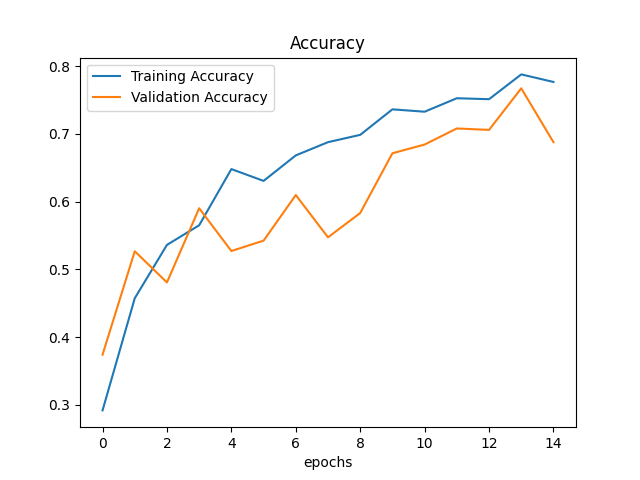
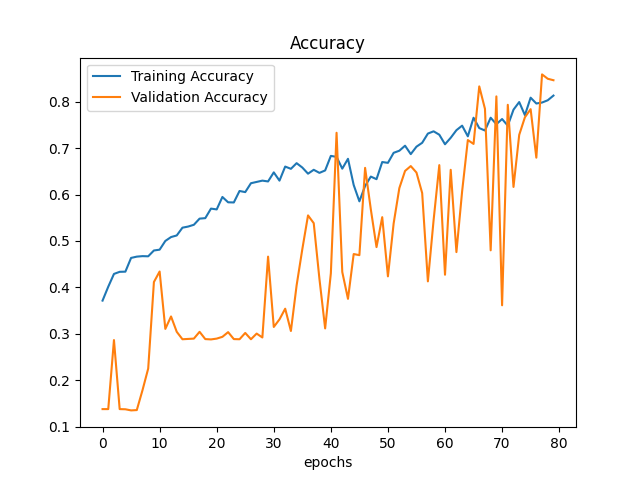
Model Built

diff --git a/project/src/models/CNN_model2.py b/project/src/models/CNN_model2.py
@@ -6,69 +6,72 @@ class Model:
 
     def model_1(self):
         # Early Stopping set to patience of 1
-        callback = tf.keras.callbacks.EarlyStopping(monitor='loss', patience=3)
+        callback = tf.keras.callbacks.EarlyStopping(monitor='loss', patience=11)
 
         # Build a CNN model
         model_1 = tf.keras.models.Sequential([
 
             # 1.
             tf.keras.layers.Conv2D(filters=64,
-                                   kernel_size=7,
+                                   kernel_size=4,
                                    activation="relu",
-                                   input_shape=(224, 224, 1)),
-            tf.keras.layers.Dropout(0.25),
+                                   input_shape=(128, 128, 1)),
             tf.keras.layers.MaxPool2D(pool_size=2,
                                       padding="Same"),
+            tf.keras.layers.Dropout(0.20),
 
             # 2.
             tf.keras.layers.Conv2D(filters=128,
-                                   kernel_size=7,
+                                   kernel_size=4,
                                    activation="relu"),
-            tf.keras.layers.Dropout(0.25),
             tf.keras.layers.MaxPool2D(pool_size=2,
                                       padding="Same"),
 
             # 3.
-            tf.keras.layers.Conv2D(filters=128,
-                                   kernel_size=7,
+            tf.keras.layers.Conv2D(filters=256,
+                                   kernel_size=4,
                                    activation="relu"),
-            tf.keras.layers.Dropout(0.30),
             tf.keras.layers.MaxPool2D(pool_size=2,
                                       padding="Same"),
+            tf.keras.layers.Dropout(0.20),
 
             # 4.
-            tf.keras.layers.Conv2D(filters=128,
-                                   kernel_size=7,
+            tf.keras.layers.Conv2D(filters=512,
+                                   kernel_size=4,
                                    activation="relu"),
-            tf.keras.layers.Dropout(0.30),
             tf.keras.layers.MaxPool2D(pool_size=2,
                                       padding="Same"),
 
             # 5.
-            tf.keras.layers.Conv2D(filters=256,
-                                   kernel_size=7,
+            tf.keras.layers.Conv2D(filters=512,
+                                   kernel_size=4,
                                    activation="relu"),
-            tf.keras.layers.Dropout(0.30),
+
             tf.keras.layers.MaxPool2D(pool_size=2,
                                       padding="Same"),
+            tf.keras.layers.Dropout(0.20),
 
             tf.keras.layers.Flatten(),
             tf.keras.layers.Dense(1024, activation="relu"),
             tf.keras.layers.BatchNormalization(),
-            tf.keras.layers.Dropout(0.5),
+            tf.keras.layers.Dense(512, activation="relu"),
+            tf.keras.layers.BatchNormalization(),
+            tf.keras.layers.Dense(64, activation="relu"),
+            tf.keras.layers.BatchNormalization(),
+            tf.keras.layers.Dropout(0.3),
             tf.keras.layers.Dense(4, activation="softmax")])
 
         # Compile the model
 
         model_1.compile(loss="categorical_crossentropy",
-                        optimizer=tf.keras.optimizers.Adam(lr=0.001, beta_1=0.9),
+                        optimizer=tf.keras.optimizers.Adam(lr=0.1, beta_1=0.9),
                         metrics=['accuracy'])
 
         model_1.summary()
 
         # Fit the model
 
-        history_1 = model_1.fit(self.train_data_augmented, epochs=50,
+        history_1 = model_1.fit(self.train_data_augmented, epochs=80,
                                 steps_per_epoch=len(self.train_data_augmented),
                                 validation_data=self.test_data,
                                 validation_steps=len(self.test_data),

diff --git a/project/src/features/modify.py b/project/src/features/modify.py
@@ -25,24 +25,29 @@ class ModifyBuild:
 
         # Create augmented train and test data generators and rescale the data
         train_datagen_augmented = ImageDataGenerator(rescale=1./255,
-                                                     rotation_range=90,
-                                                     horizontal_flip=True)
+                                                     rotation_range=45,
+                                                     width_shift_range=0.2,
+                                                     height_shift_range=0.2,
+                                                     shear_range=0.2,
+                                                     zoom_range=0.2,
+                                                     horizontal_flip=True,
+                                                     fill_mode='nearest')
 
         test_datagen = ImageDataGenerator(rescale=1./255)
 
         # Load the image data
         train_data_augmented = train_datagen_augmented.flow_from_directory(train_dir,
-                                                                           target_size=(224, 224),
+                                                                           target_size=(128, 128),
                                                                            class_mode="categorical",
-                                                                           batch_size=128,
+                                                                           batch_size=200,
                                                                            shuffle=True,
                                                                            color_mode="grayscale",
                                                                            seed=44)
 
         test_data = test_datagen.flow_from_directory(test_dir,
-                                                     target_size=(224,224),
+                                                     target_size=(128,128),
                                                      class_mode="categorical",
-                                                     batch_size = 128,
+                                                     batch_size = 200,
                                                      color_mode="grayscale",
                                                      seed=44)
 
